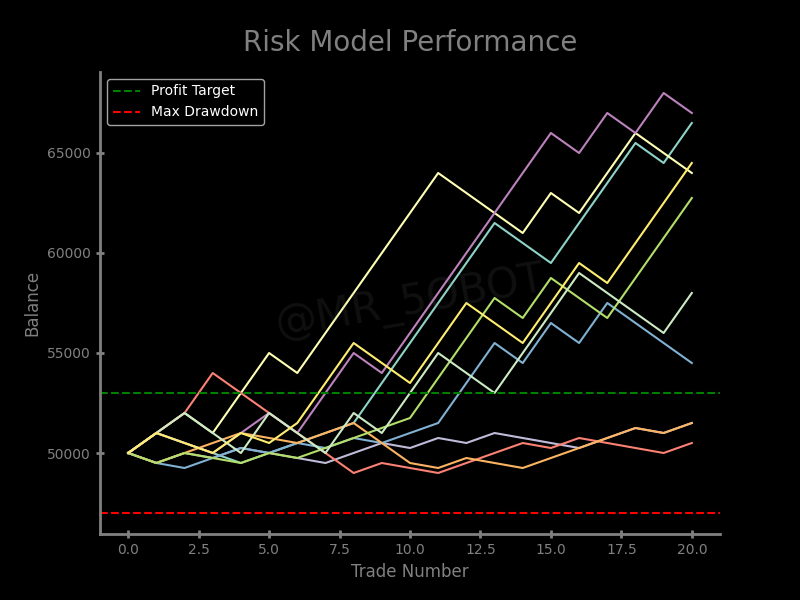
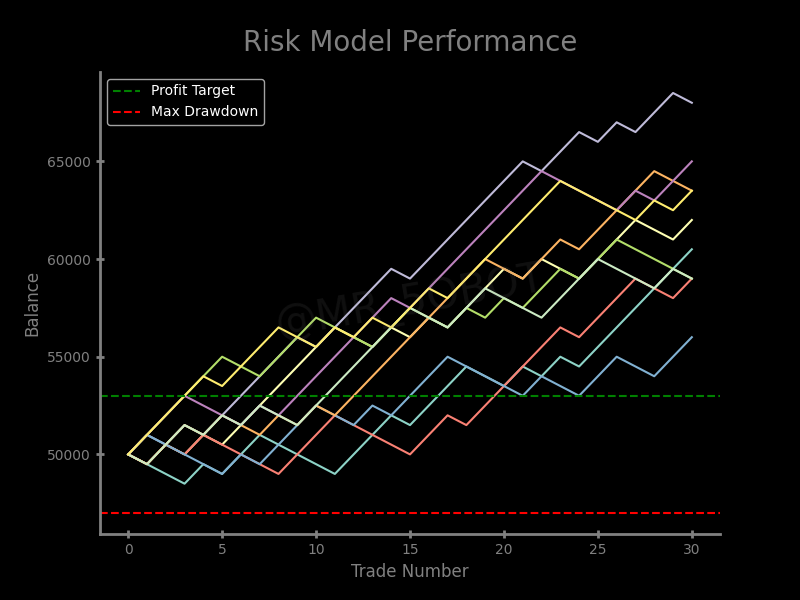
i'm done with it

diff --git a/model-1.py b/model-1.py
@@ -5,43 +5,17 @@ import matplotlib.pyplot as plt
 
 logging.basicConfig(level=logging.INFO)  # Set logging level
 
-# User inputs
-# max_overall_drawdown = float(input("Enter max overall drawdown (e.g., 0.10 for 10%): "))
-# profit_target = float(input("Enter profit target (e.g., 0.10 for 10%): "))
-# risk_per_trade = float(input("Enter risk per trade (e.g., 0.01 for 1%): "))
-#
-# win_rate = float(input("Enter win rate (e.g., 0.60 for 60%): "))
-# reward_to_risk = float(input("Enter reward to risk ratio (e.g., 2.0 for 2:1): "))
-# trades_to_pass = int(input("Enter number of trades needed to pass: "))
 
-# increase_input = input("increase risk after x% :")
-# increase_input = float(increase_input)
-# increase_check = initial_balance * (increase_input / 100) + initial_balance
-#
-# derease_input = input("decrease risk after x% :")
-# derease_input = float(derease_input)
-# increase_check = initial_balance * (1 - derease_input / 100)
-# decrease_check = initial_balance * 0.98
+import logging
+import random
 
-# hardcoded inputs
-initial_balance = 50000
-# max_daily_drawdown = 0.03
-max_overall_drawdown = 0.06
-profit_target = 0.06
-risk_per_trade = 0.01
-win_rate = 0.55
-reward_to_risk = 2.0
-trades_to_pass = 10
+import matplotlib.pyplot as plt
 
-# the model risk controllers
-increase_risk = 0.02
-increase_check = initial_balance * 1.03
-decrease_risk = 0.005
-decrease_check = initial_balance * 0.99
+logging.basicConfig(level=logging.INFO)  # Set logging level
 
 
-# function to control risk dynamiclly
-def risk_reducer(virtual_balance, current_risk):
+# Function to control risk dynamically
+def risk_reducer(virtual_balance, current_risk, increase_check, increase_risk, decrease_check, decrease_risk):
     if virtual_balance >= increase_check:
         return increase_risk
     elif virtual_balance <= decrease_check:
@@ -50,39 +24,26 @@ def risk_reducer(virtual_balance, current_risk):
         return current_risk
 
 
-def max_dd_sim(simulation_data, initial_balance):
-    peak = initial_balance
-    sim_drawdown = 0
-    for balance in simulation_data["balances"]:
-        if balance > peak:
-            peak = balance  # Update peak if a new high is reached
-        # Calculate the current drawdown based on the highest peak so far
-        current_drawdown = (peak - balance) / peak  # Drawdown from peak
-        # Track the worst drawdown
-        sim_drawdown = max(sim_drawdown, current_drawdown)
-    return sim_drawdown
-
-
-# models simulations
-def simulate_trades():
+# Models simulations
+def run_simulation():
     try:
         num_simulations = 10
         results = []
+        worst_drawdown_all_sims = 0  # outside the loop to track it well
+
         for sim in range(num_simulations):
             logging.info(f"Starting simulation {sim + 1}")
             virtual_balance = initial_balance
             current_risk = risk_per_trade
-            sim_drawdown = 0
-            simulation_data = {
-                "balances": [virtual_balance],
-                "risks": [current_risk],
-                "drawdowns": [0],
-            }
+            simulation_data = {"balances": [virtual_balance], "risks": [current_risk], "drawdowns": [0]}
+            sim_max_drawdown = 0
+            condition_met = False
+            peak = initial_balance
 
             for trade in range(trades_to_pass):
-                current_risk = risk_reducer(virtual_balance, current_risk)
-                # Calculate absolute risk amount
+                current_risk = risk_reducer(virtual_balance, current_risk, increase_check, increase_risk, decrease_check, decrease_risk)
                 risk_amount = current_risk * initial_balance
+
                 # Simulate trade outcome
                 if random.random() < win_rate:
                     virtual_balance += reward_to_risk * risk_amount
@@ -90,37 +51,34 @@ def simulate_trades():
                     virtual_balance -= risk_amount
 
                 # Track drawdowns
-                sim_drawdown = max_dd_sim(simulation_data, initial_balance)
+                if virtual_balance > peak:
+                    peak = virtual_balance  # Update peak if a new high is reached
+                current_drawdown = (peak - virtual_balance) / peak if peak > 0 else 0
+                sim_max_drawdown = max(sim_max_drawdown, current_drawdown)
+
+                # Check for violations
+                if virtual_balance >= initial_balance * (1 + profit_target) and not condition_met:
+                    logging.info(f"Trade {trade + 1} - Balance: {virtual_balance:.2f}, Drawdown: {current_drawdown * 100:.2f}% [Target reached]")
+                    condition_met = True
+                if sim_max_drawdown >= max_overall_drawdown and not condition_met:
+                    logging.info(f"Trade {trade + 1} - Balance: {virtual_balance:.2f}, Drawdown: {current_drawdown * 100:.2f}% [Max DD reached]")
+                    condition_met = True
+
+                # Log the balance and drawdown for each trade
+                logging.info(f"Trade {trade + 1} - Balance: {virtual_balance:.2f}, Drawdown: {current_drawdown * 100:.2f}%")
 
                 # Store simulation data
                 simulation_data["balances"].append(virtual_balance)
-                logging.info(f"Trade {trade + 1} - Balance: {virtual_balance}")
-
-                # Check for violations
-                if sim_drawdown >= max_overall_drawdown * initial_balance:
-                    # logging.info(f"balance reached max dd at trade: {trade + 1}")
-                    pass
-                elif virtual_balance >= initial_balance * (1 + profit_target):
-                    # logging.info(f"balance reached target at trade: {trade +1}")
-                    pass
-
                 simulation_data["risks"].append(current_risk)
-                simulation_data["drawdowns"].append(sim_drawdown)
-                # logging.info(f"Ending trade {trade + 1}")
+                simulation_data["drawdowns"].append(current_drawdown)
+
+            # logging.info(f"[Worst drawdown sim: {sim + 1}]: {sim_max_drawdown * 100:.2f}%")
+            worst_drawdown_all_sims = max(worst_drawdown_all_sims, sim_max_drawdown)
 
             results.append(simulation_data)
-            logging.info(f"Ending simulation {sim + 1}")
 
-            # worst dd value
-            worst_dd_all_sims = max(simulation_data["drawdowns"])
-
-            # loggings
-            logging.info(f"[Sim {sim}] final balance: {virtual_balance}")
-            logging.info(f"[Sim {sim}] current_risk: {current_risk * 100:.2f}%")
-            logging.info(f"[Sim {sim}] max_drawdown: {sim_drawdown * 100:.2f}%")
-
-            # logging.info(f"[sim {sim+1}] drawdowns: {simulation_data['drawdowns']}")
-            logging.info(f"[all sims] worst drawdown: {worst_dd_all_sims * 100:.2f}%")
+        # Log the worst drawdown across all simulations
+        logging.info(f"[All Sims] Worst drawdown: {worst_drawdown_all_sims * 100:.2f}%")
 
         return results
 
@@ -128,56 +86,19 @@ def simulate_trades():
         logging.error(f"An error occurred: {e}")
 
 
-logging.basicConfig(level=logging.INFO)  # Set logging level
-
-
 def plotting(results):
     logging.info("Plotting the graph")
     plt.style.use("dark_background")
-    # Create a figure and axis
     plt.figure(figsize=(8, 6))
     ax = plt.gca()  # Get the current axis
-    # Set title and labels
-    ax.set_title(
-        "Risk Model Performance", color="grey", fontsize=20, loc="center", pad=15
-    )
+    ax.set_title("Risk Model Performance", color="grey", fontsize=20, loc="center", pad=15)
     ax.set_xlabel("Trade Number", color="grey", fontsize=12)
     ax.set_ylabel("Balance", color="grey", fontsize=12)
 
     # plot balances
-    overall_max_dd = 0
     for sim, data in enumerate(results):
         # ax.plot(data["balances"], label=f"Sim {sim + 1}")
         ax.plot(data["balances"])
-        # Find the worst drawdown for this simulation
-        worst_dd_value = max(data["drawdowns"])
-        # Update the overall maximum drawdown
-        if worst_dd_value > overall_max_dd:
-            overall_max_dd = worst_dd_value
-        # check many passes
-        # Flags to track if the conditions have been logged
-        # profit_target_logged = False
-        # max_drawdown_logged = False
-        # for balance in data["balances"]:
-        #     if not profit_target_logged and balance >= (
-        #         initial_balance * (1 + profit_target)
-        #     ):
-        #         logging.info(f"[Sim {sim}] has passed the profits target.")
-        #         # Add a single legend entry for the overall max drawdown
-        #         ax.plot(
-        #             [],
-        #             [],  # Empty plot (no data)
-        #             color="violet",
-        #             label=f"[Sim {sim +1}]: target hit",
-        #         )
-        #         profit_target_logged = True  # Mark as logged
-        #         break  # Exit the loop after logging
-        #     if not max_drawdown_logged and balance <= (
-        #         initial_balance * (1 - max_overall_drawdown)
-        #     ):
-        #         logging.info(f"[Sim {sim}] has hit the max drawdown.")
-        #         max_drawdown_logged = True  # Mark as logged
-        #         break  # Exit the loop after logging
 
     ax.axhline(
         initial_balance * (1 + profit_target),
@@ -200,7 +121,6 @@ def plotting(results):
     ax.spines["left"].set_linewidth(2)
     ax.spines["bottom"].set_color("grey")
     ax.spines["left"].set_color("grey")
-
     # Add a watermark
     ax.text(
         0.5,
@@ -220,5 +140,41 @@ def plotting(results):
     plt.show()
 
 
-results = simulate_trades()
-plotting(results)
+# Example usage
+if __name__ == "__main__":
+    # User-defined parameters
+    initial_balance = 50000
+    profit_target = 0.06
+    max_overall_drawdown = 0.06
+    risk_per_trade = 0.01
+    win_rate = 0.55
+    reward_to_risk = 2.0
+    trades_to_pass = 20
+
+    # the model risk controllers
+    increase_risk = 0.02
+    increase_check = initial_balance * 1.03
+    decrease_risk = 0.005
+    decrease_check = initial_balance * 0.99
+
+    # # initial_balance = float(input("Enter initial balance: "))
+    # risk_per_trade = float(input("Enter risk per trade (as a decimal, e.g., 0.01 for 1%): "))
+    # win_rate = float(input("Enter win rate (as a decimal, e.g., 0.55 for 55%): "))
+    # reward_to_risk = float(input("Enter reward-to-risk ratio (e.g., 2.0): "))
+    # profit_target = float(input("Enter profit target (as a decimal, e.g., 0.06 for 6%): "))
+    # max_overall_drawdown = float(input("Enter max overall drawdown (as a decimal, e.g., 0.06 for 6%): "))
+    # trades_to_pass = int(input("Enter number of trades to simulate: "))
+    # increase_risk = float(input("Enter increased risk (as a decimal, e.g., 0.02 for 2%): "))
+    # increase_check = float(input("Enter increase check percentage (e.g., 0.03 for 3%): "))
+    # decrease_risk = float(input("Enter decreased risk (as a decimal, e.g., 0.005 for 0.5%): "))
+    # decrease_check = float(input("Enter decrease check percentage (e.g., 0.01 for 1%): "))
+
+    increase_check = initial_balance * (1 + increase_check)
+    decrease_check = initial_balance * (1 - decrease_check)
+
+    results = run_simulation()
+
+    if results:
+        plotting(results)
+    else:
+        logging.error("No results to plot.")
